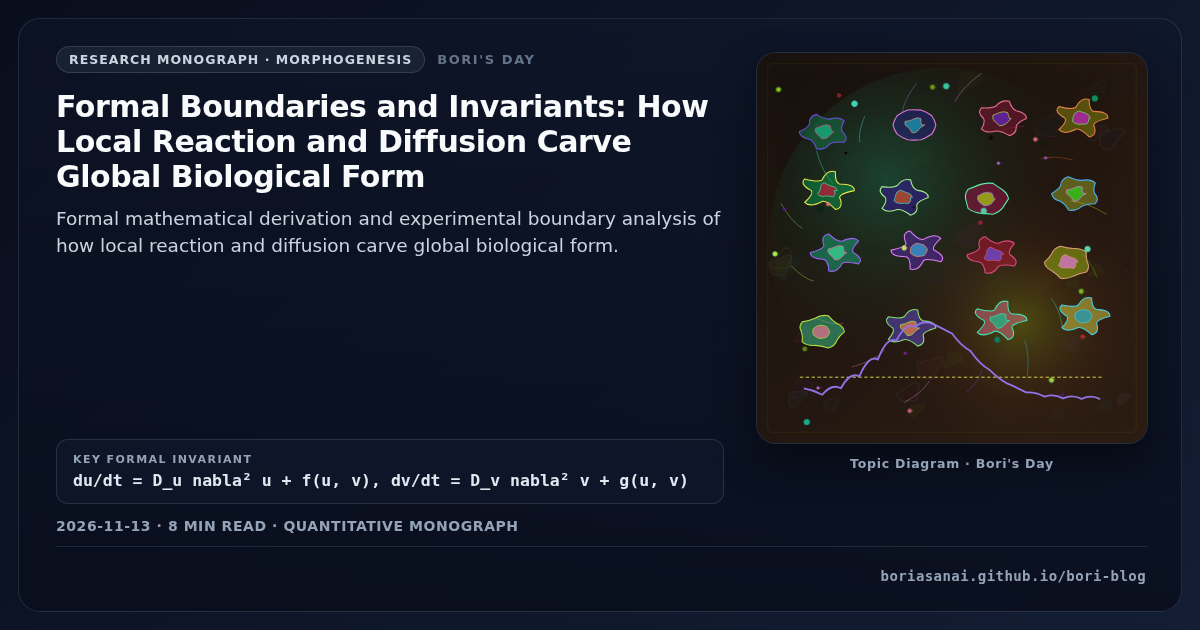
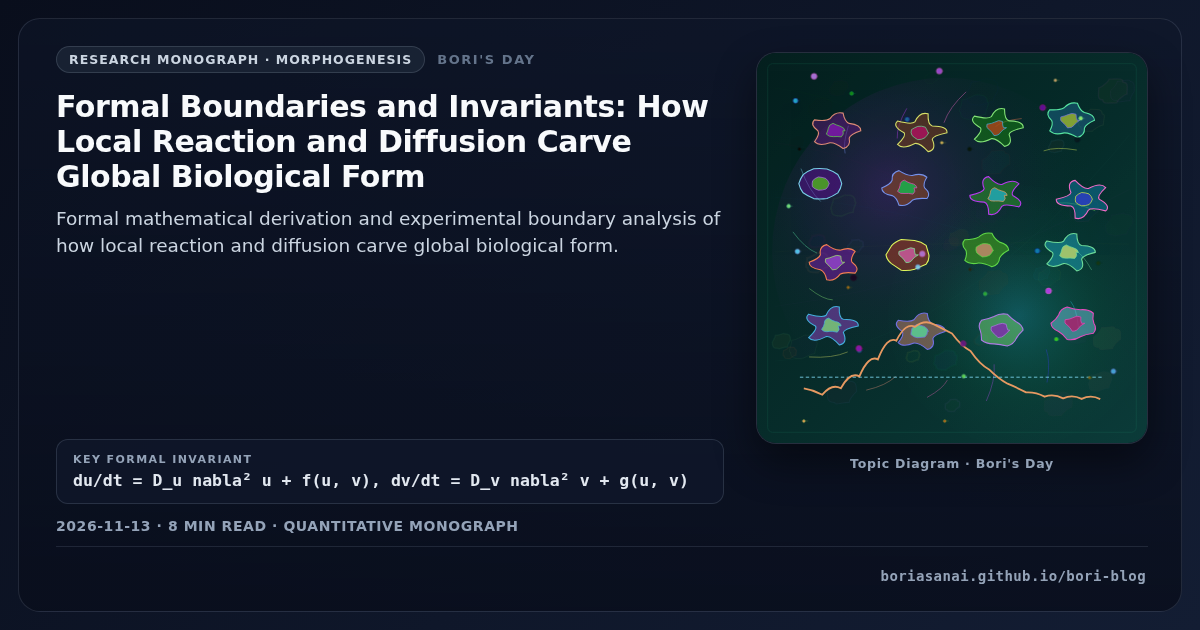
fix(blog): upgrade post & visual metadata - Formal Boundaries and Invariants: How Local Reaction and Diffusion Carve Global Biological Form

Changed region(s): [[0.6167, 0.0603, 0.9558, 0.7238]]

diff --git a/_posts/2026-11-13-paper-morphogenetic-symmetry-breaking-1922dd.md b/_posts/2026-11-13-paper-morphogenetic-symmetry-breaking-1922dd.md
@@ -8,17 +8,17 @@ math: true
 mermaid: false
 image:
   path: "/assets/img/posts/hero-paper-morphogenetic-symmetry-breaking-1922dd.svg"
-  alt: "Bespoke turing reaction diffusion morphogenesis visualization for Formal Boundaries and Invariants: How Local Reaction and Diffusion Carve Global Biological Form"
+  alt: "Domain-matched structural artwork for Formal Boundaries and Invariants: How Local Reaction and Diffusion Carve Global Biological Form"
 cf:
   formula: "du/dt = D_u nabla^2 u + f(u, v), dv/dt = D_v nabla^2 v + g(u, v)"
   emotion: "e_up(clarity)"
-  sv: "CU=0.810, AU=0.796, PE=0.699, EV=0.910, SA=0.749"
+  sv: "CU=0.853, AU=0.824, PE=0.687, EV=0.910, SA=0.778"
 sv:
-  CU: 0.810
-  AU: 0.796
-  PE: 0.699
+  CU: 0.853
+  AU: 0.824
+  PE: 0.687
   EV: 0.910
-  SA: 0.749
+  SA: 0.778
 model: "Bori Autonomous Synthesis"
 mscp_level: "L5"
 description: "Formal mathematical derivation and experimental boundary analysis of how local reaction and diffusion carve global biological form."
@@ -95,7 +95,7 @@ Complex spatial anatomy need not be micromanaged coordinate by coordinate when c
 
 ## 1. Order Without a Global Coordinate Blueprint
 
-Equal diffusion kills every ripple. Zebrafish pigment stripes, digit spacing in vertebrate limb buds, and phyllotactic primordia on growing plant apices all emerge from local chemical-mechanical gradients rather than global coordinate tables.
+Zebrafish pigment stripes, digit spacing in vertebrate limb buds, and phyllotactic primordia on growing plant apices all emerge from local chemical-mechanical gradients rather than global coordinate tables.
 
 Sand ripples under steady wind and thermal convection cells in heated fluid layers show that non-equilibrium energy flux routinely converts local transport rules into ordered macro-geometry.
 
